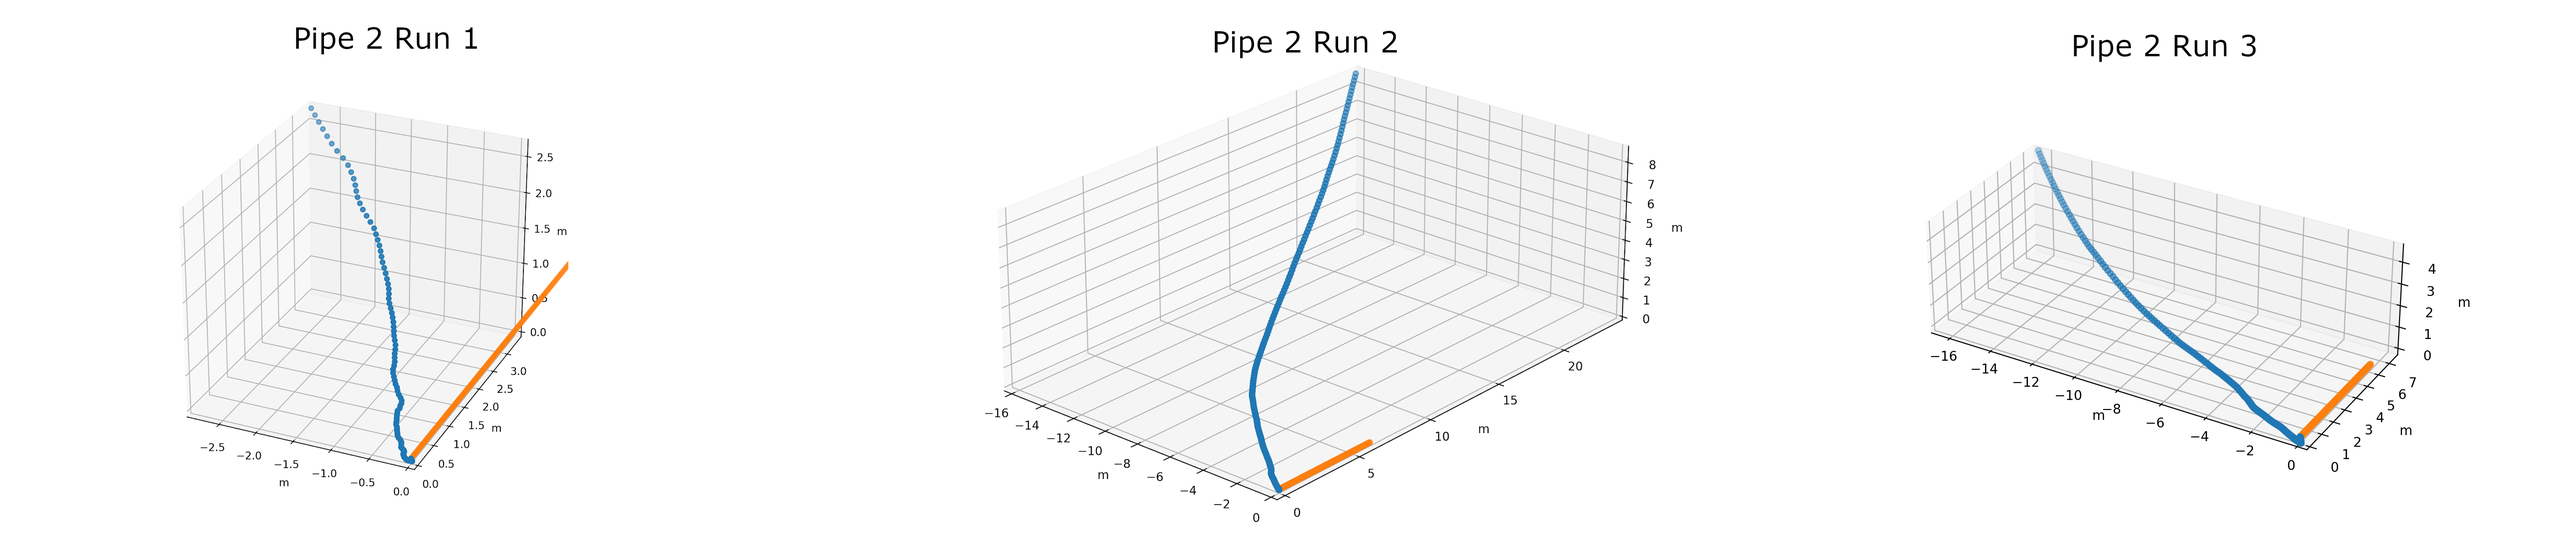
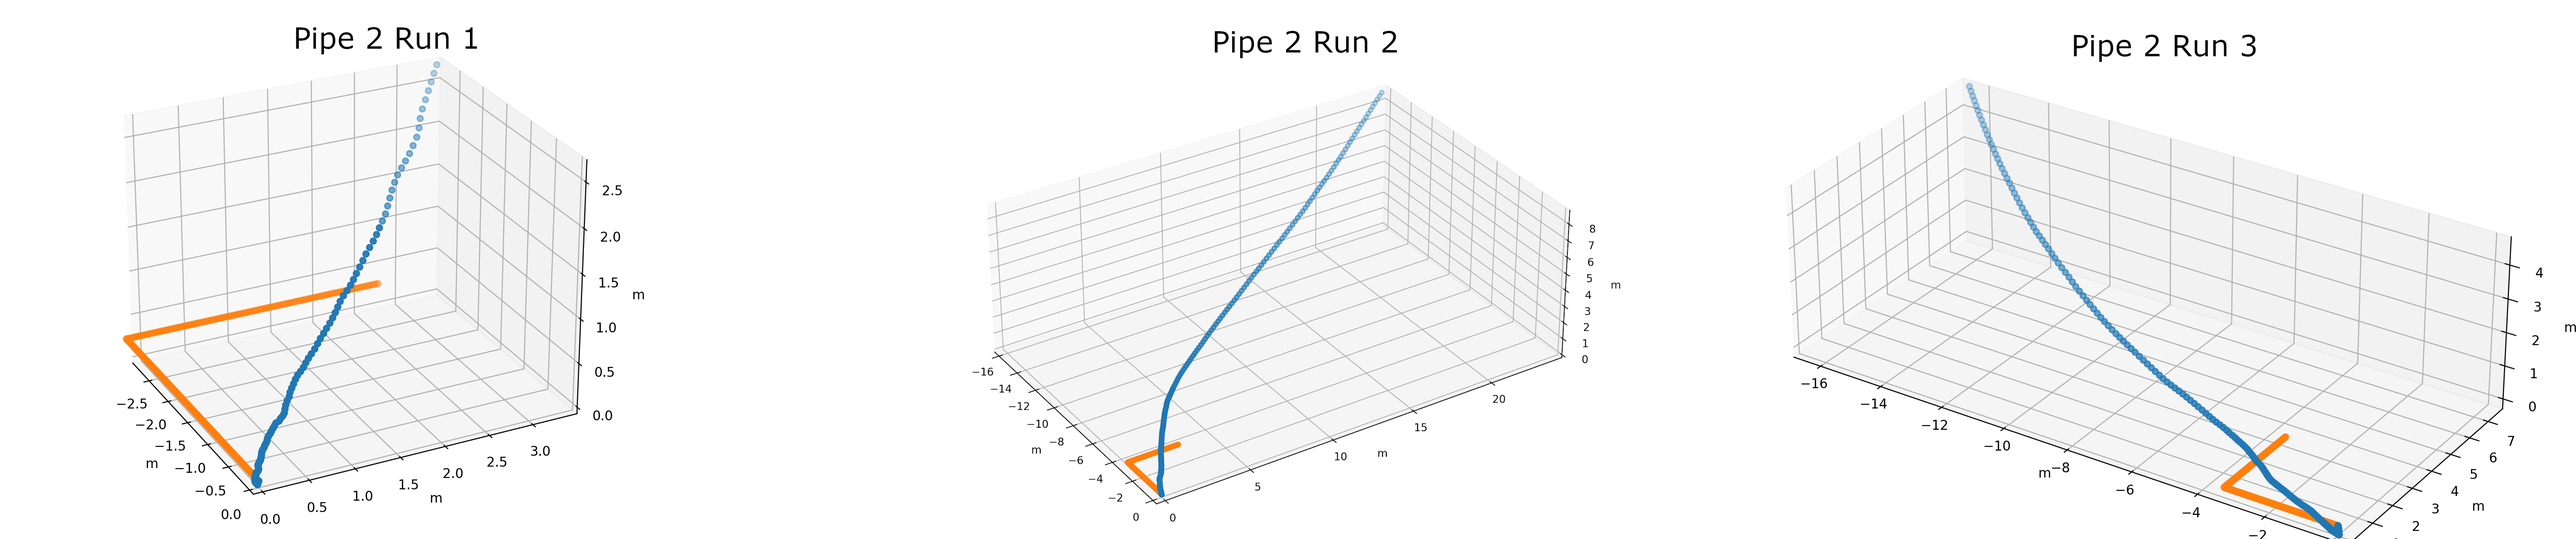
Update

diff --git a/projectDocumentation/ExperimentalAnalysis.md b/projectDocumentation/ExperimentalAnalysis.md
@@ -39,15 +39,15 @@ The graph below shows the network number and run number for each experiment, the
 
 | Network Number & Run Number | Sample Rate (Hz) | Threshold | Measured vs Baseline Endpoint Difference |
 | - | - | - | - |
-| 1 - 1 | 26 Hz | 0.1 | (13.2, 0.02, 2.32) meters |
-| 1 - 2 | 26 Hz | 0.1 | (11.1, 1.08, 1.02) meters |
-| 1 - 3 | 26 Hz | 0.1 | (11.7, 4.96, 2.22) meters |
-| 2 - 1 | 26 Hz | 0.1 | (5.94, 0.15, 2.72) meters |
-| 2 - 2 | 26 Hz | 0.1 | (19.3, 21.0, 8.72) meters |
-| 2 - 3 | 26 Hz | 0.1 | (19.6, 4.36, 4.76) meters |
-| 3 - 1 | 26 Hz | 0.1 | (99.1, 7.70, 50.3) meters |
-| 3 - 2 | 26 Hz | 0.1 | (12.7, 2.67, 2.18) meters |
-| 3 - 3 | 26 Hz | 0.1 | (29.4, 2.14, 29.8) meters |
+| 1 - 1 | 26 Hz | 0.1 | (7.05, 6.16, 2.32) meters |
+| 1 - 2 | 26 Hz | 0.1 | (4.98, 7.22, 1.02) meters |
+| 1 - 3 | 26 Hz | 0.1 | (5.54, 1.18, 2.22) meters |
+| 2 - 1 | 26 Hz | 0.1 | (0.41, 0.50, 2.72) meters |
+| 2 - 2 | 26 Hz | 0.1 | (13.0, 21.4, 8.72) meters |
+| 2 - 3 | 26 Hz | 0.1 | (13.3, 4.71, 4.76) meters |
+| 3 - 1 | 26 Hz | 0.1 | (97.1, 5.70, 50.3) meters |
+| 3 - 2 | 26 Hz | 0.1 | (10.7, 0.67, 2.18) meters |
+| 3 - 3 | 26 Hz | 0.1 | (27.4, 4.14, 29.8) meters |
 | 4 - 1 | 26 Hz | 0.1 | (87.9, 199.4, 612.3) meters |
 | 4 - 2 | 26 Hz | 0.1 | (24.4, 73.1, 214.1) meters |
 | 4 - 3 | 26 Hz | 0.1 | (18.3, 108.4, 183.8) meters|
@@ -67,11 +67,11 @@ Below are graphs and table entries of Pipe 1 and Pipe 2 with the gyroscope data 
 
 | Network Number & Run Number | Sample Rate (Hz) | Threshold | Measured vs Baseline Endpoint Difference |
 | - | - | - | - |
-| 1 - 1 | 26 Hz | 0.1 | (0.34, 8.57, 2.30) meters |
-| 1 - 2 | 26 Hz | 0.1 | (0.22, 7.51, 1.16) meters |
-| 1 - 3 | 26 Hz | 0.1 | (0.17, 9.23, 2.26) meters |
-| 2 - 1 | 26 Hz | 0.1 | (0.94, 5.38, 2.65) meters |
-| 2 - 2 | 26 Hz | 0.1 | (9.48, 8.07, 1.70) meters |
+| 1 - 1 | 26 Hz | 0.1 | (5.80, 2.44, 2.30) meters |
+| 1 - 2 | 26 Hz | 0.1 | (5.92, 1.38, 1.16) meters |
+| 1 - 3 | 26 Hz | 0.1 | (5.96, 3.09, 2.26) meters |
+| 2 - 1 | 26 Hz | 0.1 | (4.28, 2.24, 2.64) meters |
+| 2 - 2 | 26 Hz | 0.1 | (6.15, 1.07, 1.70) meters |
 | 2 - 3 | 26 Hz | 0.1 | (2.76, 4.54, 4.93) meters |
 
 ![image](/projectDocumentation/modelingsubsystem/It2_Pipe1_Runs.png)
